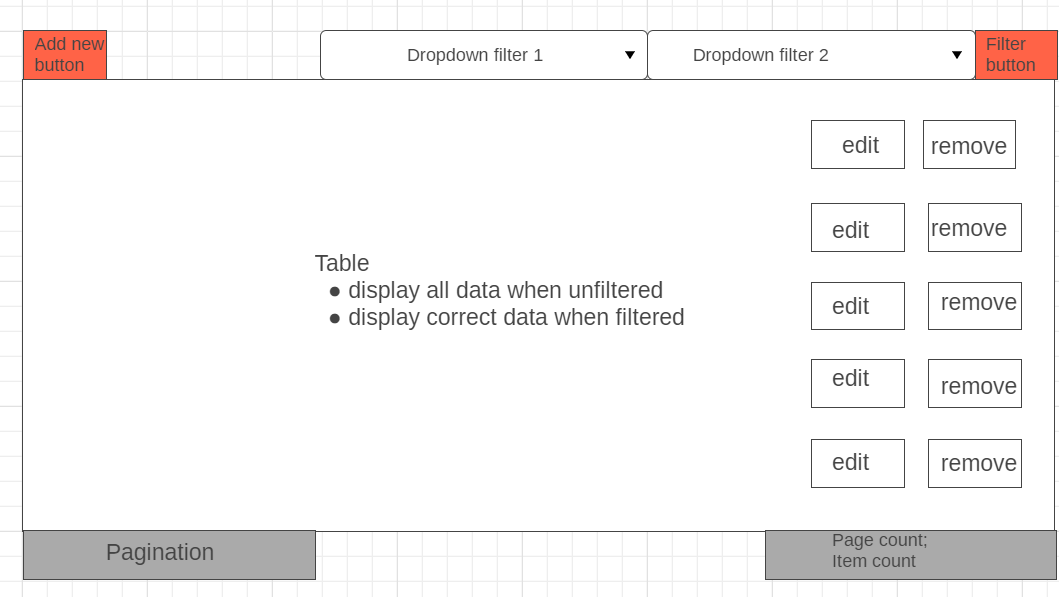
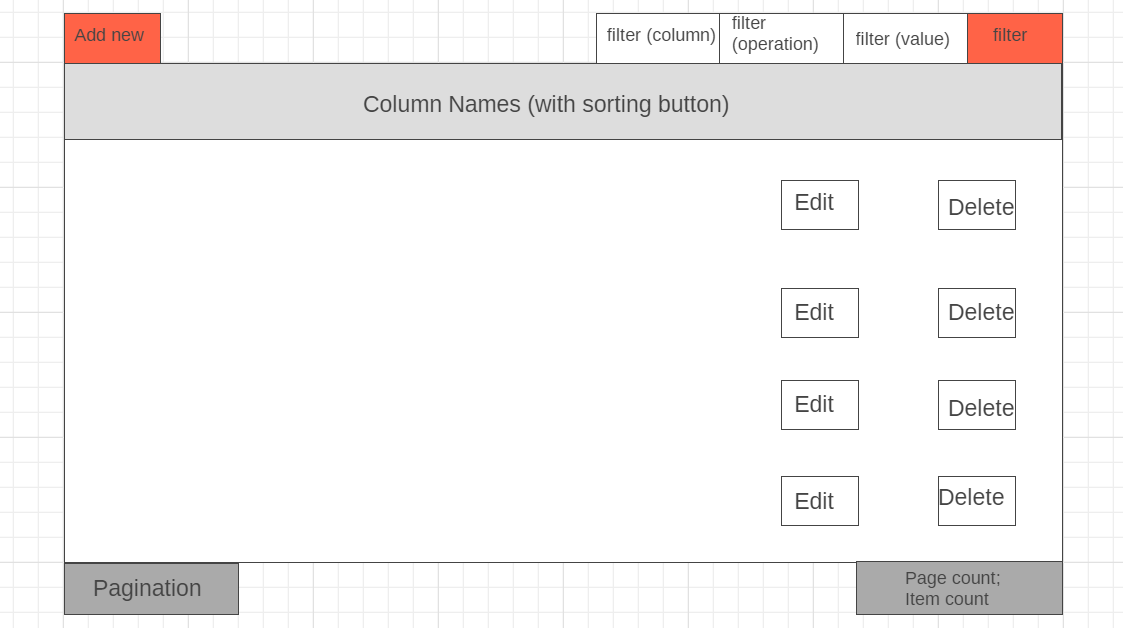
Adjusted basic data viewer design and wireframe

diff --git a/frontend/files/index.html b/frontend/files/index.html
@@ -33,7 +33,7 @@
     </div>
 
     <!-- Table containing data -->
-    <div class="container p-0">
+    <div class="mr-4 ml-5">
         <div class="row">
             <div class="input-group p-2">
                 <div class="col-sm-2 col-md-2 col-lg-2 p-0 align-self-center">
@@ -42,7 +42,7 @@
 
                 <div class="col-sm-0 col-md-3 col-lg-3"></div>
 
-                <div class="col-sm-3 col-md-3 col-lg-3 p-0">
+                <div class="col-sm-2 col-md-2 col-lg-2 p-0">
                     <select class="custom-select mb-0">
                         <option selected></option>
                         <option value="1">ProjectId</option>
@@ -50,12 +50,17 @@
                     </select>
                 </div>
     
-                <div class="col-sm-3 col-md-3 col-lg-3 p-0">
+                <div class="col-sm-2 col-md-2 col-lg-2 p-0">
                     <select class="custom-select mb-0">
                         <option selected></option>
-                        <option value="1">ProjectId</option>
-                        <option value="2">Duration</option>
+                        <option value="1">Less than</option>
+                        <option value="2">Equal to</option>
+                        <option value="3">Greater than</option>
                     </select>
+                </div>
+
+                <div class="col-sm-2 col-md-2 col-lg-2 p-0">
+                    <input type="text" class="form-control" placeholder="Enter value..">
                 </div>
     
                 <div class="input-group-append col-sm-0 col-md-1 col-lg-1 p-0">
@@ -69,11 +74,11 @@
                 <table class="table border mb-1 text-center">
                     <thead class="thead-light">
                         <tr>
-                            <th>Task ID</th>
-                            <th>Project ID</th>
-                            <th>Due Date</th>
-                            <th>Due Time</th>
-                            <th>Duration (in Hrs)</th>
+                            <th id="sortBtn">Task ID &#9660</th>
+                            <th id="sortBtn">Project ID &#9660</th>
+                            <th id="sortBtn">Due Date &#9660</th>
+                            <th id="sortBtn">Due Time &#9660</th>
+                            <th id="sortBtn">Duration (in Hrs) &#9660</th>
                             <th></th>
                             <th></th>
                         </tr>
@@ -172,6 +177,10 @@
     </div>
 
     <!-- Pop-up form for adding new tasks (Bootstrap Modals) -->
-    <
+    
+
+    <script>
+        document.getElementById("sortBtn").addEventListener("click", sort)
+    </script>
 </body>
 </html>

diff --git a/frontend/README.md b/frontend/README.md
@@ -18,7 +18,7 @@
 
 ###### Data Viewer
 
-![Data-viewer-wireframe](../worksheets/wireframes/justifications/Data_viewer_wireframe_draft.png)
+![Data-viewer-wireframe](../worksheets/wireframes/justifications/Data_viewer_wireframe.png)
 
 ###### Result Viewer
 
